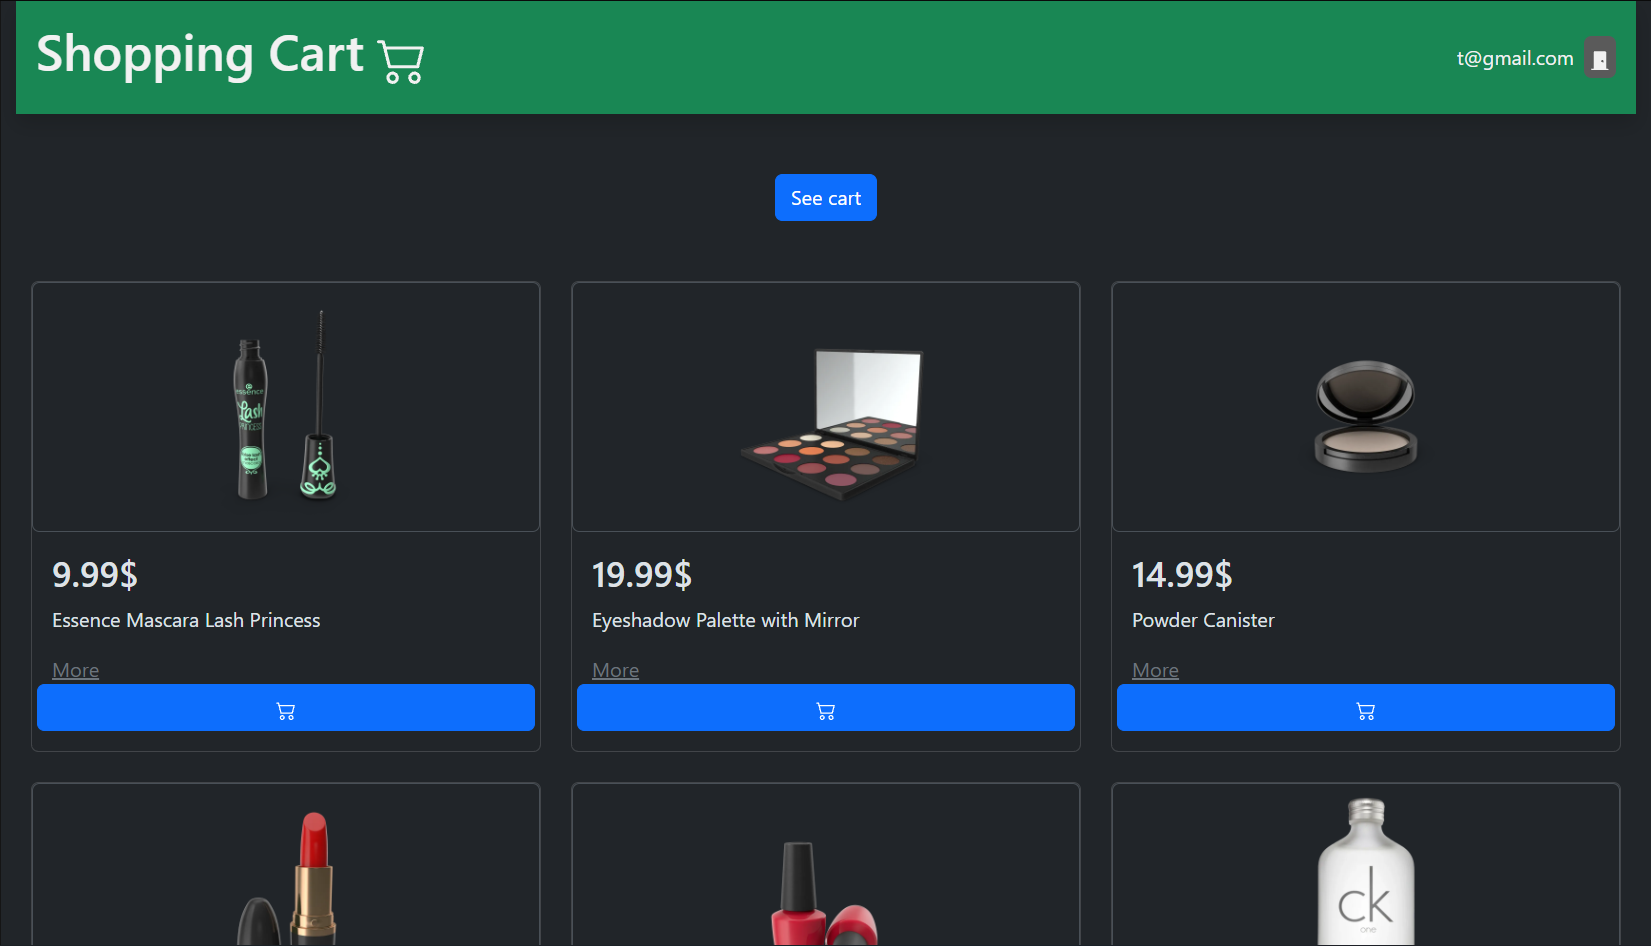
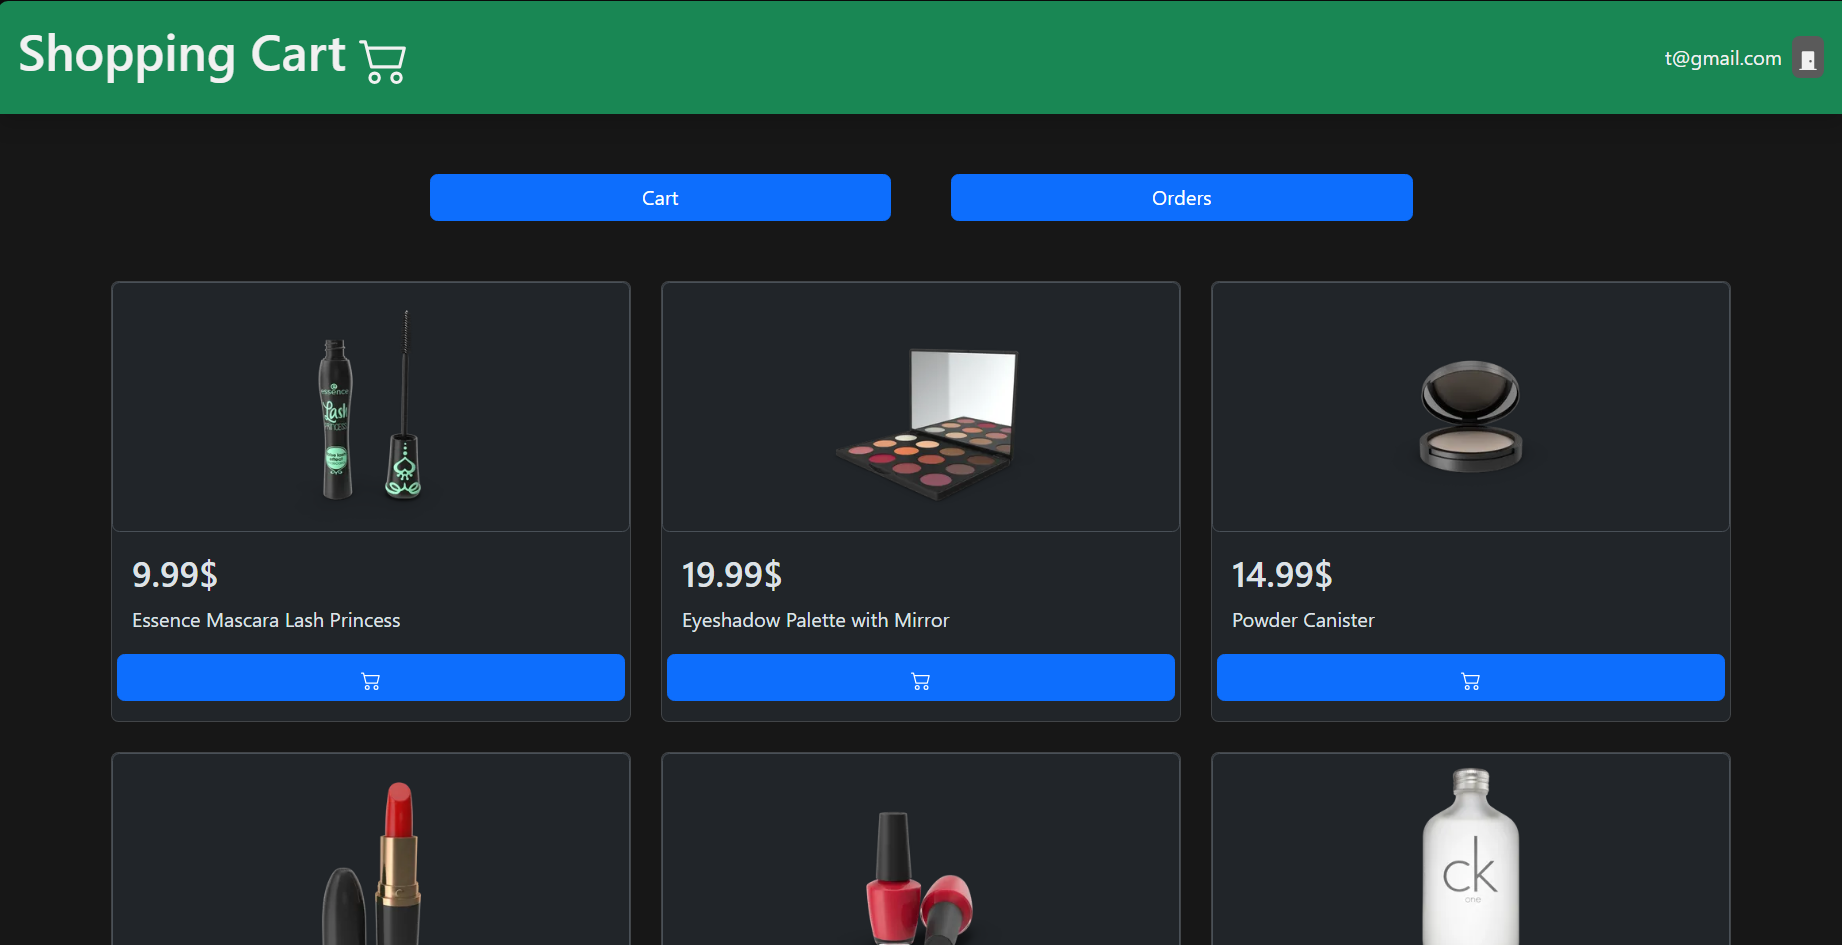
feat: new project on projects page

diff --git a/pages/projetos.html b/pages/projetos.html
@@ -68,7 +68,7 @@
         </div>
         <div>
           <h2>Shopping Cart</h2>
-          <p class="text-muted">Sistema de compras com autenticação, carrinho persistido no armazenamento do navegador e registro de compras no banco de dados.</p>
+          <p class="text-muted">Sistema de carrinho compras online com autenticação, carrinho persistido no armazenamento do navegador e registro de compras no banco de dados.</p>
         </div>
         <div class="techs">
           <div>React</div>
@@ -81,6 +81,54 @@
             <div>Repositório</div>
           </a>
           <a href="https://shopping-cart-blush-six.vercel.app" target="_blank" class="text-primary btn flex">
+            <div class="icon link-icon"></div>
+            <div>Demonstração</div>
+          </a>
+        </div>
+      </article>
+      <article class="rounded bg-surface">
+        <div id="site-image" class="rounded flex flex-center">
+          <img src="../images/sites/happykitten.png" alt="Imagem do projeto" class="rounded">
+        </div>
+        <div>
+          <h2>Happy Kitten</h2>
+          <p class="text-muted">A primeira landing page que fiz como forma de desafio para um curso de programação que eu estava fazendo. Recentemente usado por mim para treinar uso do Codex.</p>
+        </div>
+        <div class="techs">
+          <div>Html</div>
+          <div>CSS</div>
+          <div>Codex</div>
+        </div>
+        <div class="project-links flex">
+          <a href="https://github.com/Alexandre-CES/happy_kitten" target="_blank" class="text-secondary btn flex">
+            <div class="icon github-icon"></div>
+            <div>Repositório</div>
+          </a>
+          <a href="https://alexandre-ces.github.io/happy_kitten" target="_blank" class="text-primary btn flex">
+            <div class="icon link-icon"></div>
+            <div>Demonstração</div>
+          </a>
+        </div>
+      </article>
+      <article class="rounded bg-surface">
+        <div id="site-image" class="rounded flex flex-center">
+          <img src="../images/sites/landing-page-example.png" alt="Imagem do projeto" class="rounded">
+        </div>
+        <div>
+          <h2>Exemplo de landing page</h2>
+          <p class="text-muted">Outra Landing page que fiz como forma de estudo no curso de programação que fiz, é mais um exemplo do que pode ser feito apenas com html, css e javascript.</p>
+        </div>
+        <div class="techs">
+          <div>Html</div>
+          <div>CSS</div>
+          <div>JavaScript</div>
+        </div>
+        <div class="project-links flex">
+          <a href="https://github.com/Alexandre-CES/Fundamentos-de-Interface" target="_blank" class="text-secondary btn flex">
+            <div class="icon github-icon"></div>
+            <div>Repositório</div>
+          </a>
+          <a href="https://alexandre-ces.github.io/Fundamentos-de-Interface/landingPage" target="_blank" class="text-primary btn flex">
             <div class="icon link-icon"></div>
             <div>Demonstração</div>
           </a>
